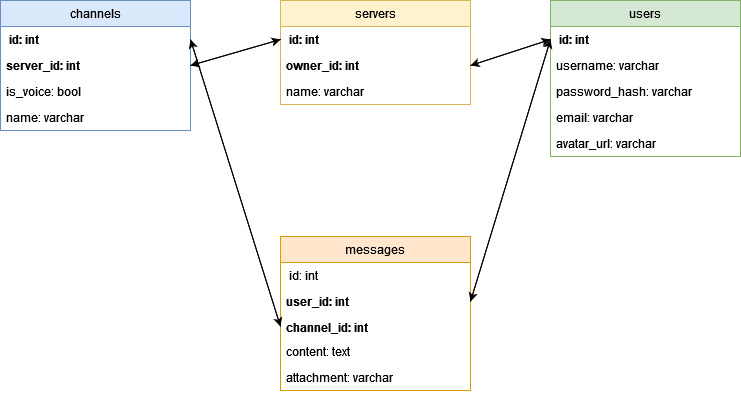
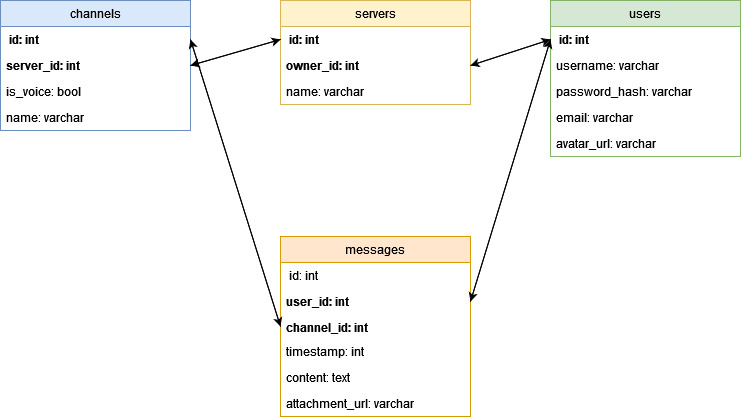
physical scheme and logic scheme update

diff --git a/README.md b/README.md
@@ -1,8 +1,9 @@
 # Проектирование высоконагруженных систем. Discord.
 
-[Таблица](https://docs.google.com/spreadsheets/d/1eIrm6sO18lFCoI-_ac6Xb4A8XyL840-xy8GyMia1cGQ/edit?usp=sharing)
-
-[Методические указания](https://github.com/init/highload/blob/main/homework_architecture.md)
+# 0. Ссылки
+* [Таблица с темами](https://docs.google.com/spreadsheets/d/1eIrm6sO18lFCoI-_ac6Xb4A8XyL840-xy8GyMia1cGQ/edit?usp=sharing)
+* [Методические указания](https://github.com/init/highload/blob/main/homework_architecture.md)
+* [Построение диаграмм](https://app.diagrams.net/)
 
 # 1. Тема и целевая аудитория
 
@@ -17,7 +18,7 @@ Discord - популярный мессенджер с поддержкой VoIP
 3. Создание сервера
     * Создание текстовых каналов (чатов) сервера
     * Создание голосовых каналов (лобби) сервера
-4. Отправка сообщений в чат сервера (текст + 1 прикреплённый файл)
+4. Отправка сообщений в чат сервера (текст + до 1 прикреплённого файла)
     * Максмимальный размер сообщения - 400 символов
     * Максимальный размер прикреплённого файла - 8 МБ
 5. Голосовое общение в голосовом канале сервера
@@ -228,35 +229,47 @@ Total RPS:
 
 # 4. Физическая схема
 
-Основной поток данных, которые необходимо сохранять и читать - это сообщения (180 ГБайт/сутки). 
+![physical_scheme](images/physical_scheme.jpg)
 
-Для сохранения такого большого объема данных, необходимо использовать БД с линейным масштаброванием и высокой скоростью записи.
+### messages:
+* Основной поток данных, которые необходимо сохранять и читать - это сообщения (180 ГБайт/сутки). 
+* Для сохранения такого большого объема данных, необходимо использовать БД с линейным масштаброванием и высокой скоростью записи (Cassandra).
+* Т.к. сообщения читают в 5 раз чаще, чем отправляют, необходимо обеспечить высокую скорость чтения. Для этого можно реплицировать таблицу с сообщениями.
+* Индекс на `channel_id` для быстрого получения сообщений в канале
+* Сортировка `ORDER BY id DESC`, т.к. старые сообщения читают редко
 
-Т.к. сообщения читают в 5 раз чаще, чем отправляют, необходимо обеспечить высокую скорость чтения.
-Старые сообщения читают редко, поэтому достататочно обеспечить быстрый доступ на чтение только к последним сообщениям. Это можно сделать с помощью InMemory базы данных.
+### users:
+* Для отображения сообщений в публичном канале необходимо узнать их автора. Для этого необходима высокая скорость чтения из таблицы с пользователями. Этого можно добиться с помощью репликации таблицы с пользователями.
+* Индекс на `username` для быстрой авторизации
 
-Для отображения сообщений в публичном канале необходимо узнать их автора. Для этого необходима высокая скорость чтения из таблицы с пользователями. Этого можно добиться с помощью репликации БД.
+### channels:
+* Индекс на `server_id` для быстрого получения каналов сервера
+
+### server_members
+* Индекс на `server_id` для быстрого получения списка пользователей сервера
+* Индекс на `user_id` для быстрого получения списка серверов пользователя
 
 # 5. Технологии
 | Название | Область применения | Мотивация |
 | :----:     |  :----:            |       :---|
-| Ubuntu Server | OS | Наличие LTS версий |
-| Nginx | Web-Server | Высокая скорость работы, удобство и гибкость настройки |
-| Golang   | Backend | Высокая скорость работы, надежность, удобство разработки |
-| Postgres | DB (хранение пользователей, серверов и каналов) | Надежность, легкость изменения структуры таблиц |
-| Cassandra |DB (хранение сообщений) | Линейная масштабираемость, высокая скорость работы, очень высокая скорость записи больших объемов данных|
-| CloudFlare         |  CDN (хранение статики, аватарок и файлов пользователей)  | Высокая скорость          |
-| VueJS    | Frontend | Быстрая разработка производительного VDOM интерфейса |
-| TypeScript |Frontend  | Более высокая надежность в сравнении с JS за счёт наличия статической типизации |
+| **Ubuntu Server** | OS | Наличие LTS версий |
+| **Nginx** | Web-Server | Высокая скорость работы, надежность, удобство и гибкость настройки |
+| **Golang**   | Backend | Высокая скорость работы, надежность, удобство разработки |
+| **Postgres** | DB (users, channels, servers, server_members) | Надежность, легкость изменения структуры таблиц |
+| **Cassandra** |DB (messages) | Линейная масштабируемость, высокая скорость работы, очень высокая скорость записи больших объемов данных, высокая скорость чтения |
+| **Cloudflare** CDN         |  CDN (хранение статики, аватарок и файлов пользователей)  | Высокая скорость, сервера по всему миру |
+| **VueJS**    | Frontend | Быстрая разработка производительного VDOM интерфейса |
+| **TypeScript** |Frontend  | Более высокая надежность в сравнении с JS за счёт наличия статической типизации |
 
-Бэкенд стоит разрабатывать на микросервисной архитектуре для повышения надежности и распределения микросервисов на разные сервера.
+Бэкенд стоит разрабатывать с применением `микросервисной архитектуры` для повышения надежности и распределения микросервисов на разные сервера.
 
-Список микросервисов:
+**Список микросервисов**:
 1. Авторизация и регистрация
-2. Профиль, создание и редактирование серверов и каналов, список пользователей
-3. Отправка и чтение сообщений
-4. Получение и передача голоса
-5. Получение и передача трансляций
+2. Профиль, создание, редактирование и просмотр серверов и каналов
+3. Присоединение и отсоединение от голосовых каналов
+4. Отправка и получение сообщений
+5. Передача и получение голоса
+6. Передача и получение трансляций
 
 # 6. Схема проекта
 
